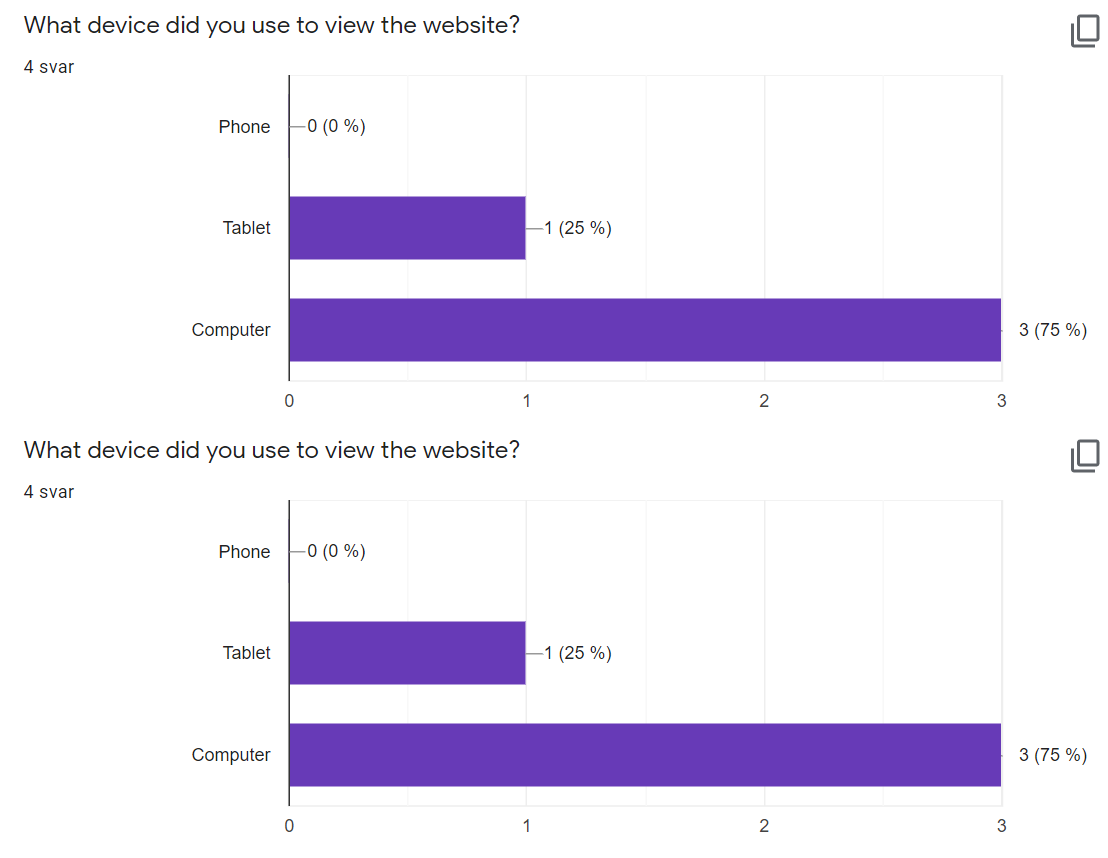
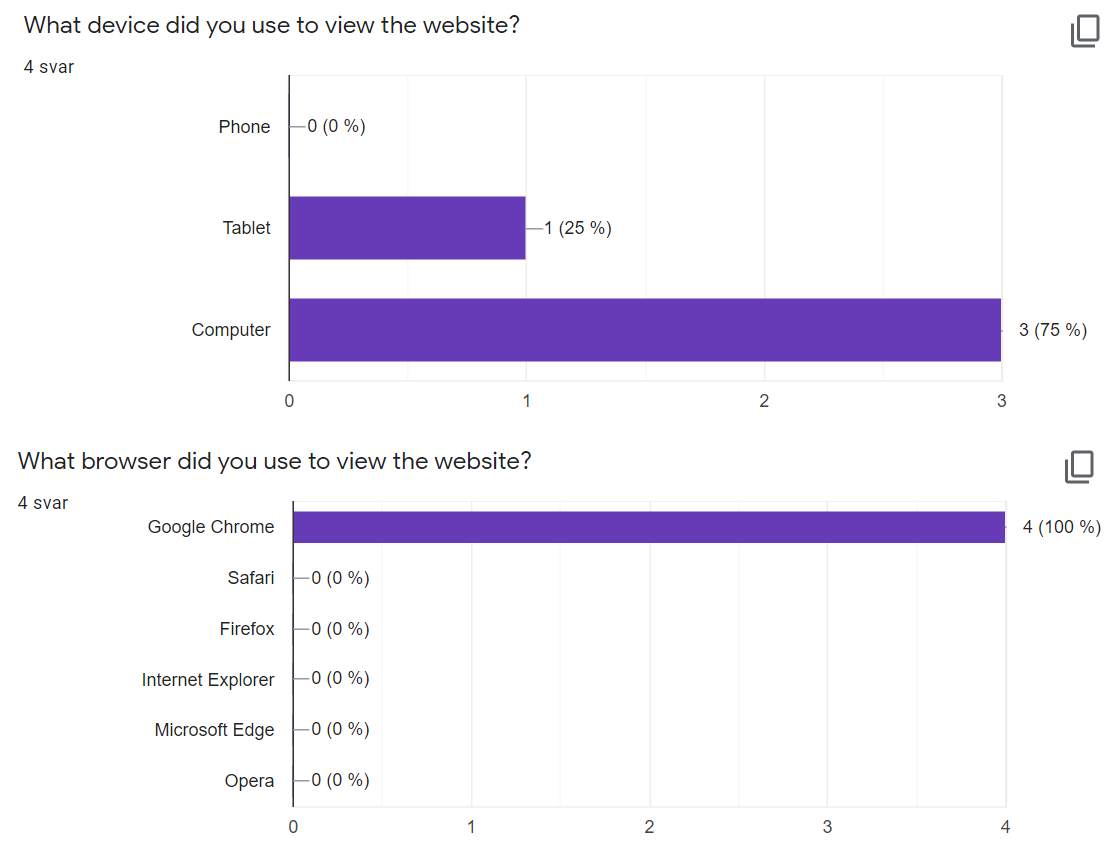
P3+4 work + image fix on blog

Changed region(s): [[0.1227, 0.5758, 1.0, 0.9697], [0.0, 0.5152, 0.491, 0.6061], [0.9513, 0.5152, 1.0, 0.5758]]

diff --git a/Documents/P3_changes_33.html b/Documents/P3_changes_33.html
@@ -57,7 +57,8 @@
 			<h3> Changes to songs.html </h3>
 			<p> <i>Handled by: Joakim.</i><br> Instead of having only one lyric-box be visible at a time (with any already open lyric-box closing whenever you opened a new one, as per the design doc), we instead opted to let the user keep several songs open.
 			The idea behind this was simply out of practicality; to let Crows have their specific songs open for a given performance, so the can scroll between the ones they need then and there, rather than having to open them each progressively.
-			Another small change not specified in design: longer songs will now have their lyrics split into two columns (responsively: this only happens on screens wider than 1000px). The genuine songbook for Kråkeluren is formatted in two columns - it only made sense to do it that way. </p>
+			Another small change not specified in design: longer songs will now have their lyrics split into two columns (responsively: this only happens on screens wider than 1000px). The genuine songbook for Kråkeluren is formatted in two columns - it only made sense to do it that way.
+			Speaking of: the song page now also includes a link to the original "Kråkelurens sang- og vedtakshefte" PDF - implemented based on feedback. </p>
 
 			<h3> Changes to about.html </h3>
 			<p> <i>Handled by: Cathrine</i><br> The about Kråkeluren page does not have many changes from the initial plan either. The only thing we added was a description over the big image that is shown on hover. We also made this image 100% width of the browser and let the header be below instead of above. </p>

diff --git a/main/blog.html b/main/blog.html
@@ -43,18 +43,16 @@
 						<div class="shopBox">
 							<div class="column_in">
 								<div class="braakImg">
-									<video autoplay muted loop alt="Atter en tørst kråke!" poster="img/picBlog4.jpg">
-										<source src="vid/vidBlog4.mp4" type="video/mp4">	<!-- Potential compatability problem: We only have a copy of this video in mp4 at the moment -->
-									</video>
+									<img src="img/picBlog6.jpg" alt="Optisk kråkeillusjon">
 								</div>
-								<p>Som en gammel natteravn en gang sa; «Det er bedre med en dram til kråka, enn en time i Drammen».</p>
+								<p>Kan noen forklare oss denne optiske illusjonen?.</p>
 							</div>
-	          </div>
+	        	  		</div>
 
 						<div class="shopBox">
 							<div class="column_in">
 								<div class="braakImg">
-									<video autoplay muted loop alt="Atter en tørst kråke!" poster="img/picBlog4.jpg">
+									<video autoplay muted loop poster="img/picBlog4.jpg">
 										<source src="vid/vidBlog4.mp4" type="video/mp4">	<!-- Potential compatability problem: We only have a copy of this video in mp4 at the moment -->
 									</video>
 								</div>
@@ -71,7 +69,7 @@
 							</div>
 						</div>
 
-				  </div>
+				</div>
 				  <div class="shopCol">
 
 						<div class="shopBox">

diff --git a/Documents/P4_testing_33.html b/Documents/P4_testing_33.html
@@ -37,6 +37,9 @@
 			</p>
 			<h2> Tester Platforms </h2>
 			<img src="img/form_Platforms.png" alt="" style="width:90%;margin-left:auto;margin-right:auto;display:block;"/></li>
+			<p> While Chrome was clearly the primary testing browser (purely by coincidence), there was a couple live tests on Safari on mobile/iOS. In addition to the form responses from tablets and computer browsers as seen above, there were a couple live tests on mobile on Chrome. The mobile tests were instrumental to iron out responsivity issues for small screens - which was one of the primary changes between the two versions of the form that were sent out.
+			</p>
+			<h2> Feedback Response </h2>
 			<p> 
 			</p>
 		</div>
